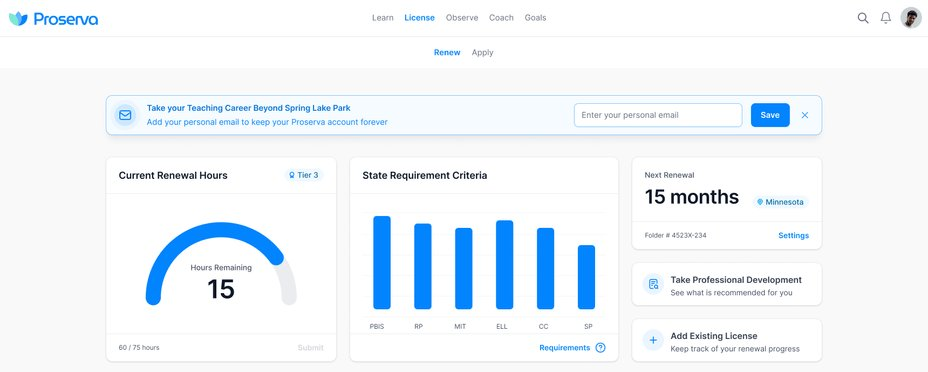
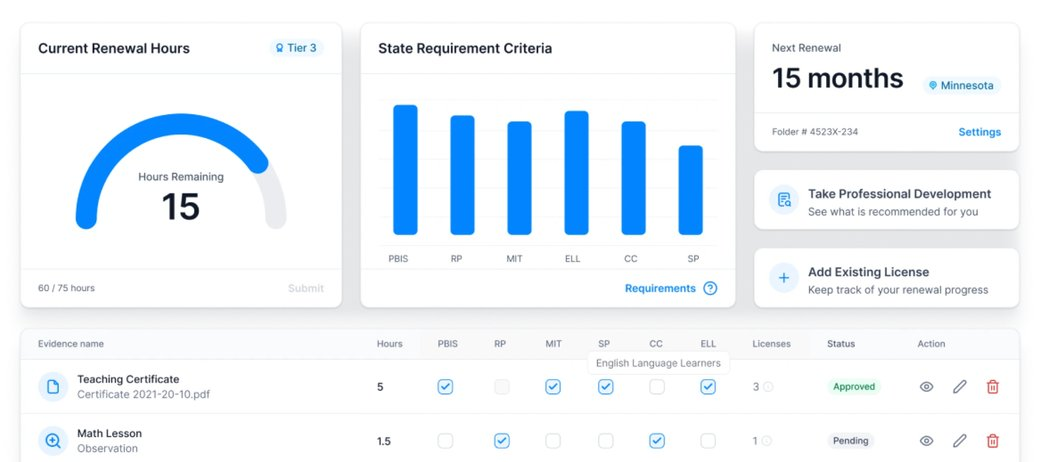
MASA email: new dashboard image in hero
Claude-Session: https://claude.ai/code/session_01TBAi1STe1LjgfKPTFiTPXm

diff --git a/proserva-masa-email.html b/proserva-masa-email.html
@@ -85,7 +85,7 @@
         <!-- Product shot, sits on the bottom edge of the hero (font-size/line-height 0 stops a gap line under the image) -->
         <tr><td class="hero-img" align="center" bgcolor="#062860" style="padding:0 40px;background:#062860;font-size:0;line-height:0;">
           <a href="#" style="display:block;text-decoration:none;">
-            <img src="https://raw.githubusercontent.com/isissi/landing-page/main/assets/masa-email-dashboard.jpg" width="520" alt="Proserva renewal dashboard: renewal hours remaining, Minnesota requirement criteria and next renewal date" style="display:block;width:100%;max-width:520px;margin:0 auto;border-radius:12px 12px 0 0;font-family:Arial,Helvetica,sans-serif;font-size:14px;line-height:20px;color:#c9def5;">
+            <img src="https://raw.githubusercontent.com/isissi/landing-page/main/assets/masa-email-dashboard.jpg" width="520" alt="Proserva renewal dashboard: renewal hours remaining, state requirement criteria, next renewal date and evidence tracking" style="display:block;width:100%;max-width:520px;margin:0 auto;border-radius:12px 12px 0 0;font-family:Arial,Helvetica,sans-serif;font-size:14px;line-height:20px;color:#c9def5;">
           </a>
         </td></tr>
 
